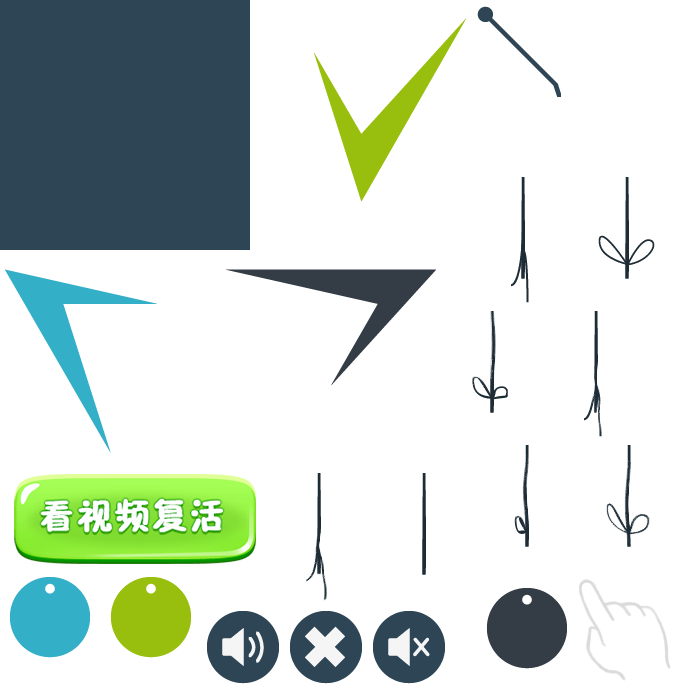
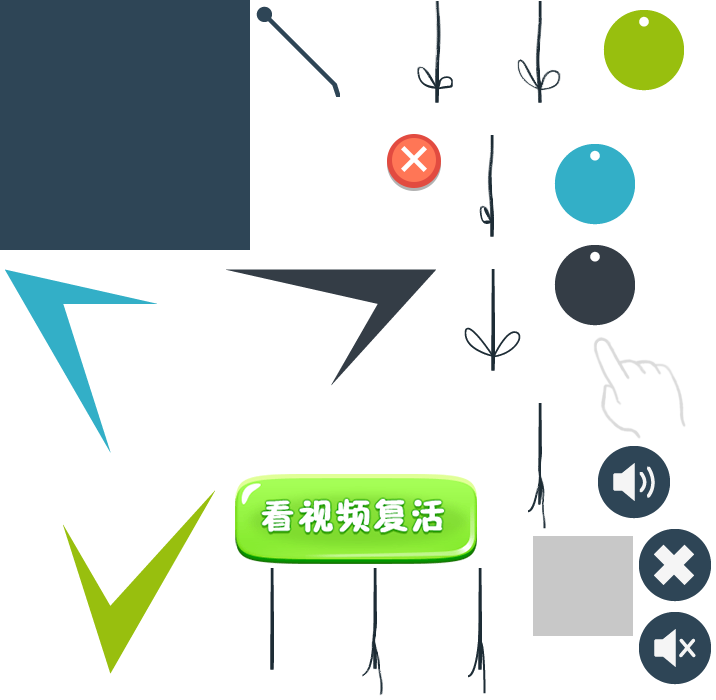
三角形排行

diff --git a/WXTriangle/src/ui/layaUI.max.all.js b/WXTriangle/src/ui/layaUI.max.all.js
@@ -56,6 +56,30 @@ var GameOverUI=(function(_super){
 		GameOverUI.uiView={"type":"View","props":{"width":720,"height":1280,"centerY":0,"centerX":0},"child":[{"type":"Box","props":{"width":720,"height":1280,"centerY":0,"centerX":0},"child":[{"type":"Sprite","props":{"y":-138,"x":-280,"width":1280,"height":1556,"alpha":0.5},"child":[{"type":"Rect","props":{"width":1280,"lineWidth":1,"height":1556,"fillColor":"#000000"}}]},{"type":"Button","props":{"y":957,"x":220,"width":280,"var":"btn_close","stateNum":1,"skin":"Game/img_button.png","labelSize":35,"labelFont":"SimHei","labelColors":"#ffffff","label":"重新开始","height":92}},{"type":"Button","props":{"y":1083,"x":220,"width":280,"visible":true,"var":"btn_share","stateNum":1,"skin":"Game/img_button.png","labelSize":35,"labelFont":"SimHei","labelColors":"#ffffff","label":"邀请好友","height":92}},{"type":"Text","props":{"y":222,"x":260,"text":"历史最高：","fontSize":40,"font":"SimHei","color":"#FFFFFF"}},{"type":"Text","props":{"y":269,"x":244,"width":204,"var":"t_highScore","text":"99999","height":45,"fontSize":50,"font":"SimHei","color":"#FFFFFF","align":"center"}},{"type":"Text","props":{"y":325,"x":260,"text":"当前分数：","fontSize":40,"font":"SimHei","color":"#FFFFFF"}},{"type":"Text","props":{"y":380,"x":242,"width":204,"var":"t_gamescore","text":"99999","height":45,"fontSize":40,"font":"SimHei","color":"#FFFFFF","align":"center"}}]}]};
 		return GameOverUI;
 	})(View);
+var GameRankUI=(function(_super){
+		function GameRankUI(){
+			
+		    this.gameoverPanel=null;
+		    this.RankList=null;
+		    this.playerItem=null;
+		    this.listName=null;
+		    this.close=null;
+
+			GameRankUI.__super.call(this);
+		}
+
+		CLASS$(GameRankUI,'ui.GameRankUI',_super);
+		var __proto__=GameRankUI.prototype;
+		__proto__.createChildren=function(){
+		    
+			laya.ui.Component.prototype.createChildren.call(this);
+			this.createView(GameRankUI.uiView);
+
+		}
+
+		GameRankUI.uiView={"type":"View","props":{"width":720,"height":1280,"centerY":0,"centerX":0},"child":[{"type":"Box","props":{"width":1280,"visible":true,"var":"gameoverPanel","height":1556,"centerY":0,"centerX":0},"child":[{"type":"Sprite","props":{"alpha":0.7},"child":[{"type":"Rect","props":{"y":0,"x":0,"width":1280,"lineWidth":1,"height":1556,"fillColor":"#050505"}}]},{"type":"Box","props":{"y":367,"centerX":0},"child":[{"type":"Image","props":{"y":12,"x":0,"width":618,"skin":"Game/rankBg.png","sizeGrid":"10,10,10,10","height":728},"child":[{"type":"List","props":{"y":89,"x":6,"width":610,"visible":false,"var":"RankList","spaceY":5,"selectEnable":false,"repeatY":6,"repeatX":1,"height":536},"child":[{"type":"Box","props":{"y":0,"x":0,"width":574,"var":"playerItem","renderType":"render","height":85},"child":[{"type":"Label","props":{"y":40,"x":36,"width":35,"text":"99","name":"rankIndex","height":36,"fontSize":30,"font":"SimHei","anchorY":0.5,"anchorX":0.5,"align":"center"}},{"type":"Label","props":{"y":23,"x":135,"width":205,"text":"玩家名字七个字","name":"playerName","height":40,"fontSize":25,"font":"SimHei"}},{"type":"Label","props":{"y":25,"x":350,"width":116,"text":"9999999","name":"playerScore","height":30,"fontSize":25,"font":"SimHei","color":"#ff0000","align":"center"}},{"type":"Label","props":{"y":26,"x":471,"width":116,"text":"青铜卫士","name":"playerTitle","height":30,"fontSize":25,"font":"SimHei","color":"#010101","align":"center"}}]}]},{"type":"Label","props":{"y":21,"var":"listName","text":"好友排行","fontSize":35,"font":"SimHei","color":"#ffffff","centerX":-7}},{"type":"Label","props":{"y":669,"x":306,"text":"每周一更新排名","fontSize":26,"font":"SimHei","color":"#ffffff","bold":true,"anchorY":0.5,"anchorX":0.5}}]},{"type":"Image","props":{"y":-2,"x":577,"var":"close","skin":"Game/btn_guanbi.png"}}]}]}]};
+		return GameRankUI;
+	})(View);
 var GameSharedUI=(function(_super){
 		function GameSharedUI(){
 			
@@ -97,6 +121,6 @@ var GameStartUI=(function(_super){
 
 		}
 
-		GameStartUI.uiView={"type":"View","props":{"width":720,"height":1280,"centerY":0,"centerX":0},"child":[{"type":"Box","props":{"width":720,"height":1280,"centerY":0,"centerX":0},"child":[{"type":"Sprite","props":{"y":-138,"x":-280,"width":1280,"height":1556,"alpha":0.4},"child":[{"type":"Rect","props":{"width":1280,"lineWidth":1,"height":1556,"fillColor":"#000000"}}]},{"type":"Image","props":{"y":396,"skin":"Game/title-sheet0.png","scaleY":1.2,"scaleX":1.2,"centerX":0}},{"type":"Button","props":{"y":957,"x":220,"width":280,"var":"btn_start","stateNum":1,"skin":"Game/img_button.png","labelSize":35,"labelFont":"SimHei","labelColors":"#ffffff","label":"开始游戏","height":92}},{"type":"Button","props":{"y":1083,"x":220,"width":280,"var":"btn_share","stateNum":1,"skin":"Game/img_button.png","labelSize":35,"labelFont":"SimHei","labelColors":"#ffffff","label":"邀请好友","height":92}},{"type":"Text","props":{"y":1209,"x":20,"width":180,"text":"v1.1","height":63,"fontSize":25,"font":"SimHei","color":"#ffffff"}}]}]};
+		GameStartUI.uiView={"type":"View","props":{"width":720,"height":1280,"centerY":0,"centerX":0},"child":[{"type":"Box","props":{"width":720,"height":1280,"centerY":0,"centerX":0},"child":[{"type":"Sprite","props":{"y":-138,"x":-280,"width":1280,"height":1556,"alpha":0.4},"child":[{"type":"Rect","props":{"width":1280,"lineWidth":1,"height":1556,"fillColor":"#000000"}}]},{"type":"Image","props":{"y":396,"skin":"Game/title-sheet0.png","scaleY":1.2,"scaleX":1.2,"centerX":0}},{"type":"Button","props":{"y":957,"x":220,"width":280,"var":"btn_start","stateNum":1,"skin":"Game/img_button.png","labelSize":35,"labelFont":"SimHei","labelColors":"#ffffff","label":"开始游戏","height":92}},{"type":"Button","props":{"y":1083,"x":220,"width":280,"var":"btn_share","stateNum":1,"skin":"Game/img_button.png","labelSize":35,"labelFont":"SimHei","labelColors":"#ffffff","label":"好友排行","height":92}},{"type":"Text","props":{"y":1209,"x":20,"width":180,"text":"v1.2","height":63,"fontSize":25,"font":"SimHei","color":"#ffffff"}}]}]};
 		return GameStartUI;
 	})(View);

diff --git a/WXTriangle/src/UILogic/GameRankUILogic.js b/WXTriangle/src/UILogic/GameRankUILogic.js
@@ -1,0 +1,41 @@
+/**
+ * 好友界面逻辑 by lzq
+ */
+var GameRankUILogic = (function(_super){
+    function GameRankUILogic(){
+        GameRankUILogic.super(this);
+
+    }
+    Laya.class(GameRankUILogic,"UILogic.GameRankUILogic",_super);
+    var _proto = GameRankUILogic.prototype;
+    
+    _proto.onInit = function(){
+        this.width = Laya.stage.width;
+        this.height = Laya.stage.height;
+        //设置层级 相对于stage
+        this.zOrder = 10;
+
+        wxGame.getInstance().postMessage({
+                act: "showRank"
+            }, true);
+
+
+        this.close.on(Laya.Event.CLICK,this,this.onCloseRank);
+    }
+    _proto.onDestroy = function(){
+        //MessageController.getInstance().RemoveNotification(MessageEventName.RankListEvent,this,this.RankListReceiver);
+    }
+
+    _proto.updateItem = function(cell, index) {
+
+    }
+
+    /**关闭排行 */
+    _proto.onCloseRank = function(){
+        MusicManager.getInstance().playSound("res/music/click.wav");
+        wxGame.getInstance().showOpenDataContext(false);
+        UIManager.getInstance().closeUI("GameRankUI");
+        
+    }
+    return GameRankUILogic;
+})(GameRankUI);

diff --git a/WXTriangle/bin/index.html b/WXTriangle/bin/index.html
@@ -41,6 +41,7 @@
 	<!--自定义的js(bin/js文件夹下)文件自动添加到下面jsfile模块标签里面里，js的顺序可以手动修改，修改后保留修改的顺序，新增加的js会默认依次追加到标签里-->
 	<!--删除标签，ide不会自动添加js文件，请谨慎操作-->
 	<!--jsfile--startTag-->
+	<script src="../src/UILogic/GameRankUILogic.js"></script>
 	<script src="../src/Data/LevelData.js"></script>
 	<script src="../src/Data/MiniGameData.js"></script>
 	<script src="../src/Tool/GameDebug.js"></script>

diff --git a/WXTriangle/src/UILogic/GameStartUILogic.js b/WXTriangle/src/UILogic/GameStartUILogic.js
@@ -49,7 +49,8 @@ var GameStartUiLogic = (function (_super) {
     
     _proto._sharefangkuai_ClickEvent = function(){
         // MusicManager.getInstance().playSound("res/music/click.wav");
-        wxGame.getInstance().shareGame();
+        // wxGame.getInstance().shareGame();
+        UIManager.getInstance().showUI("GameRankUI");
     }
     _proto._rankfangkuai_ClickEvent = function(){
         // MusicManager.getInstance().playSound("res/music/click.wav");

diff --git a/WXTriangle/src/UILogic/GameSharedUILogic.js b/WXTriangle/src/UILogic/GameSharedUILogic.js
@@ -48,6 +48,8 @@ var GameSharedUILogic = (function(_super){
             SceneManager.getInstance().currentScene.fangkuai_restartGame(false,scoreNum);
             SceneManager.getInstance().currentScene.fangkuai_resumeGame();
             wxGame.getInstance().createVideoAD();
+        }else{
+            UIManager.getInstance().showUI("GameOverUI");
         }
     }
 
